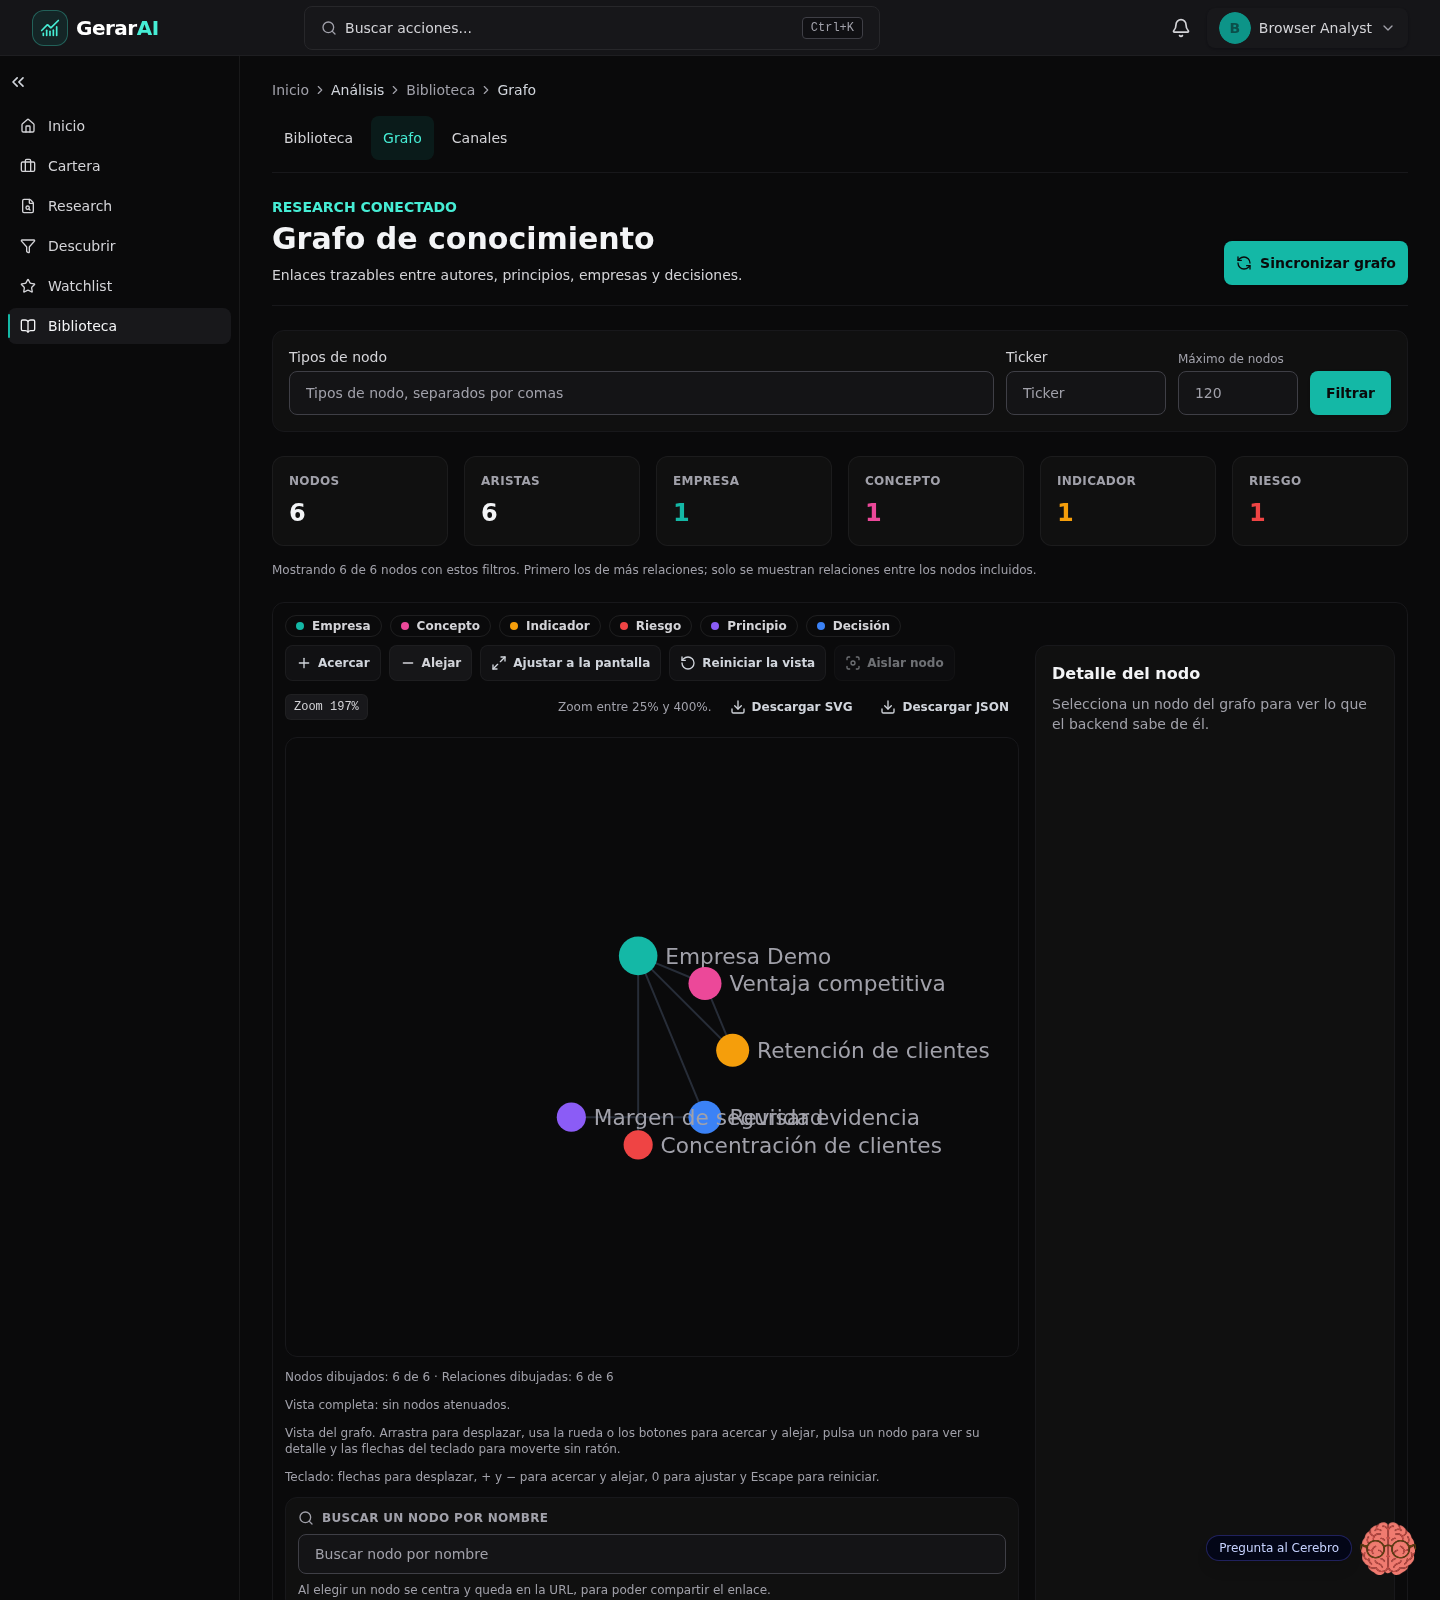
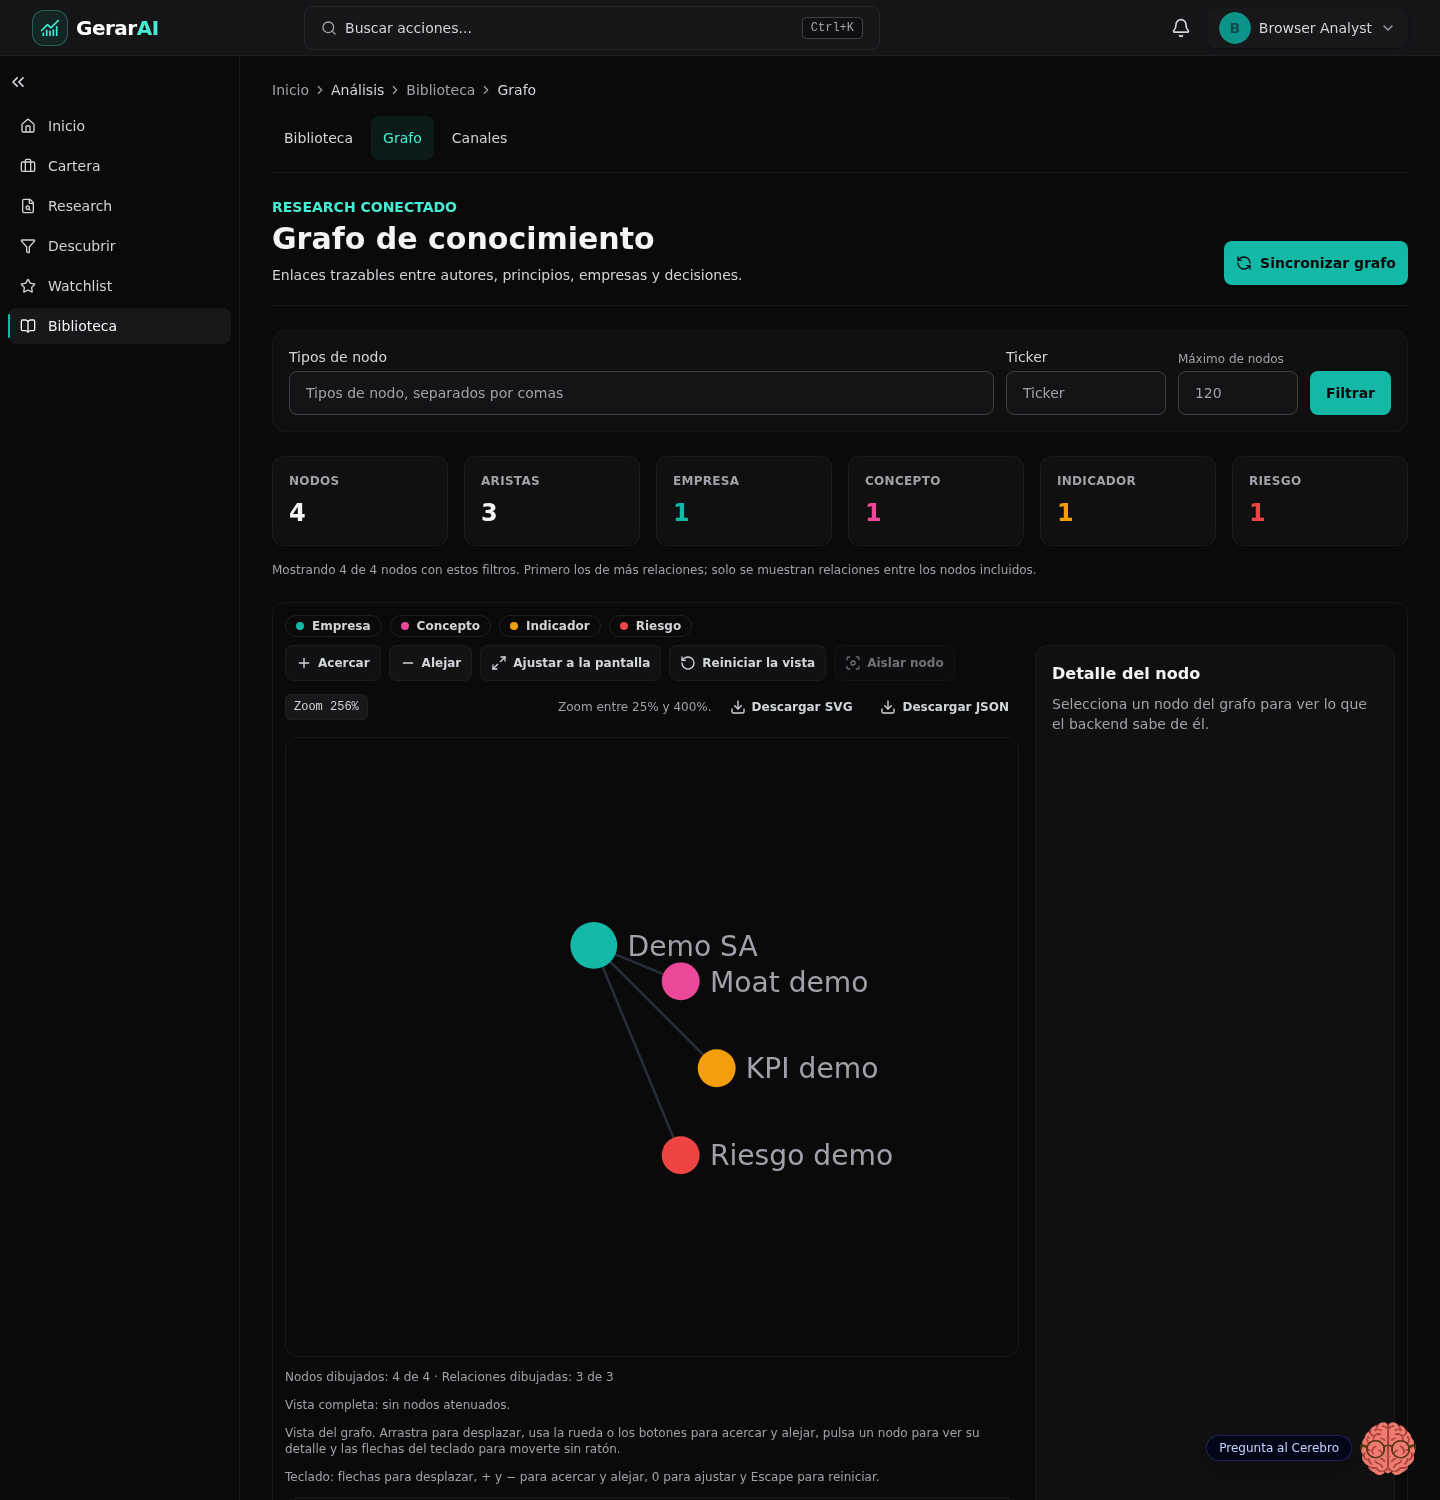
docs: improve demo graph readability and show useful mobile content

diff --git a/README.md b/README.md
@@ -38,6 +38,8 @@ Real GerarAI UI rendered locally from the current application code, with the exi
 
 ### Mobile
 
+Scrolled to the same synthetic graph, with the fixed header and bottom navigation visible.
+
 <img src="docs/images/gerarai-mobile.png" alt="GerarAI mobile interface: knowledge-graph controls with synthetic demo data" width="320" />
 
 The wordmark above is exported from the existing `GerarAIWordmark` header component with the app stylesheet, without redesigning it.
